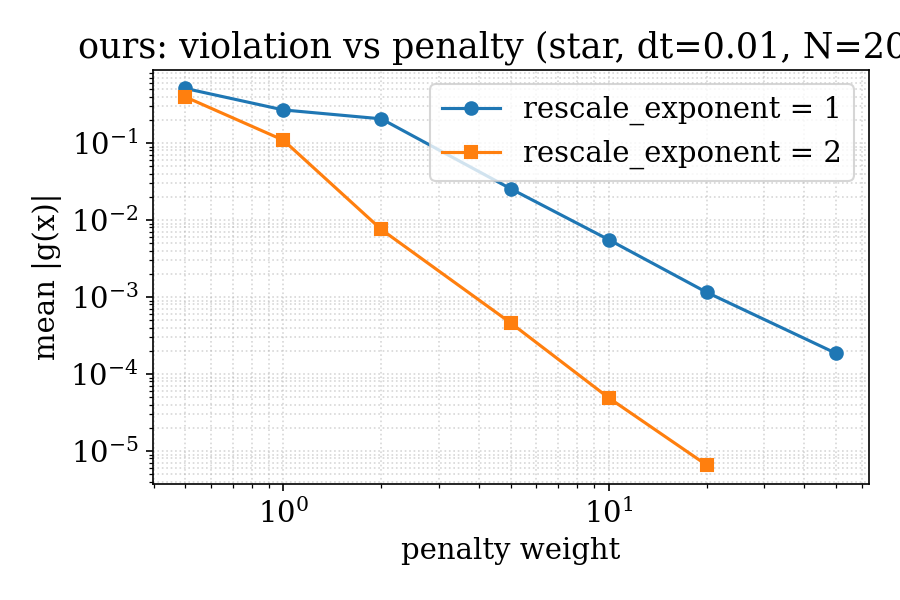
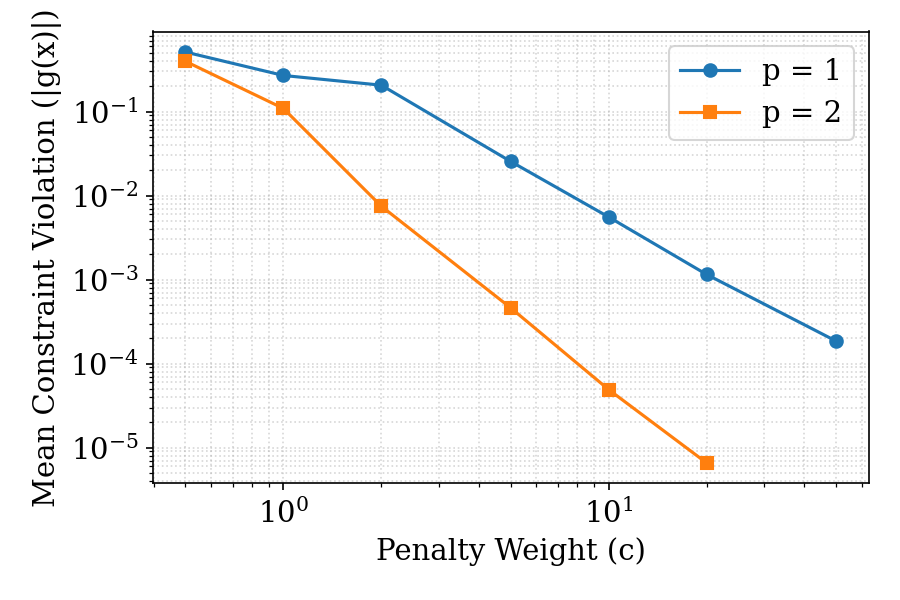
update constraint violation vs penalty plot

Changed region(s): [[0.0311, 0.0, 1.0, 0.84], [0.4044, 0.9, 0.7156, 0.96], [0.0933, 0.72, 0.1556, 0.78]]

diff --git a/plots.py b/plots.py
@@ -292,7 +292,7 @@ def plot_violation_vs_penalty(
                     rescale_exponent=exp_val,
                     solver=diffrax.Dopri5(),
                     stepsize_controller=diffrax.PIDController(
-                        rtol=1e-5, atol=1e-5, dtmin=1e-4
+                        rtol=1e-5, atol=1e-5, dtmin=1e-5,
                     ),
                 )
                 violations.append(
@@ -313,22 +313,18 @@ def plot_violation_vs_penalty(
         results["penalties"],
         results["exp1"],
         "o-",
-        label="rescale_exponent = 1",
+        label="p = 1",
     )
     ax.plot(
         results["penalties"],
         results["exp2"],
         "s-",
-        label="rescale_exponent = 2",
+        label="p = 2",
     )
     ax.set_xscale("log")
     ax.set_yscale("log")
-    ax.set_xlabel("penalty weight")
-    ax.set_ylabel("mean |g(x)|")
-    ax.set_title(
-        f"ours: violation vs penalty (star, dt={results['dt']}, "
-        f"N={results['num_samples']})"
-    )
+    ax.set_xlabel("Penalty Weight (c)")
+    ax.set_ylabel("Mean Constraint Violation (|g(x)|)")
     ax.grid(which="both", linestyle=":", alpha=0.5)
     ax.legend()
     fig.tight_layout()